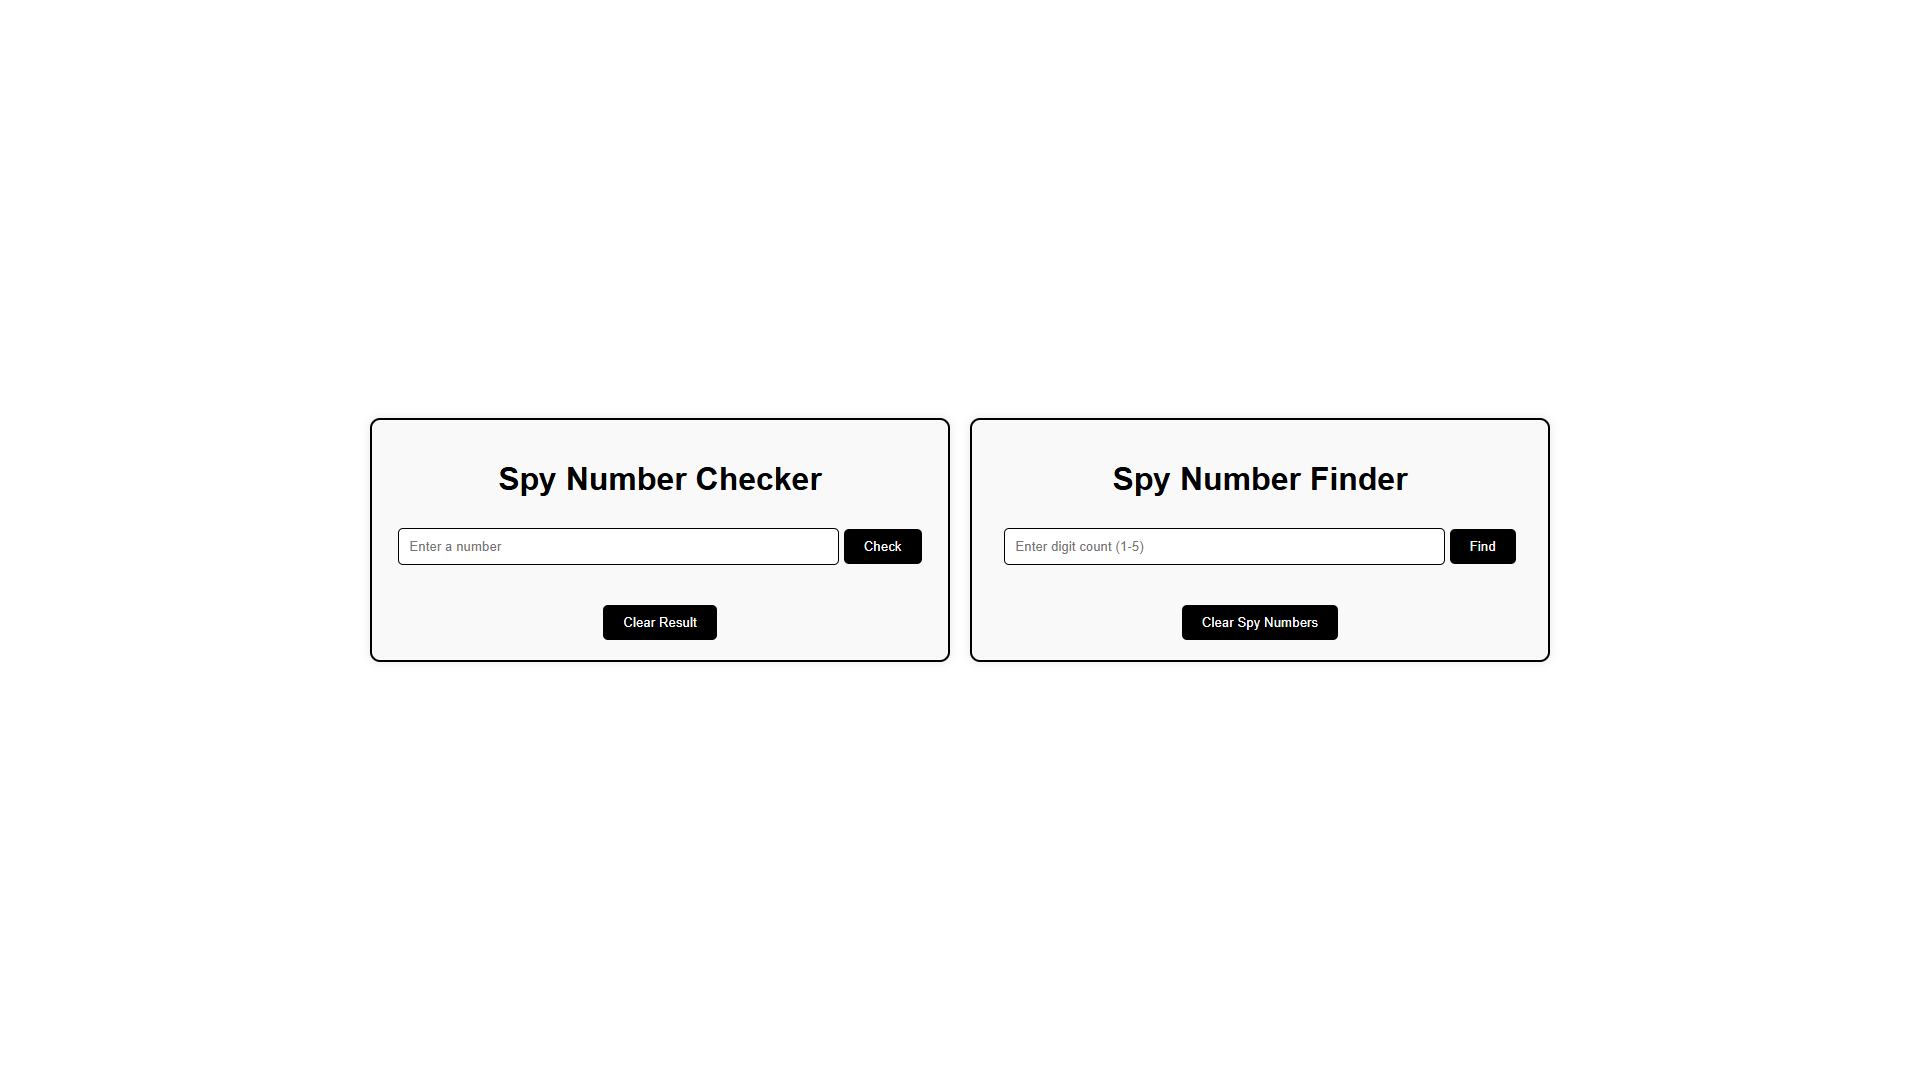
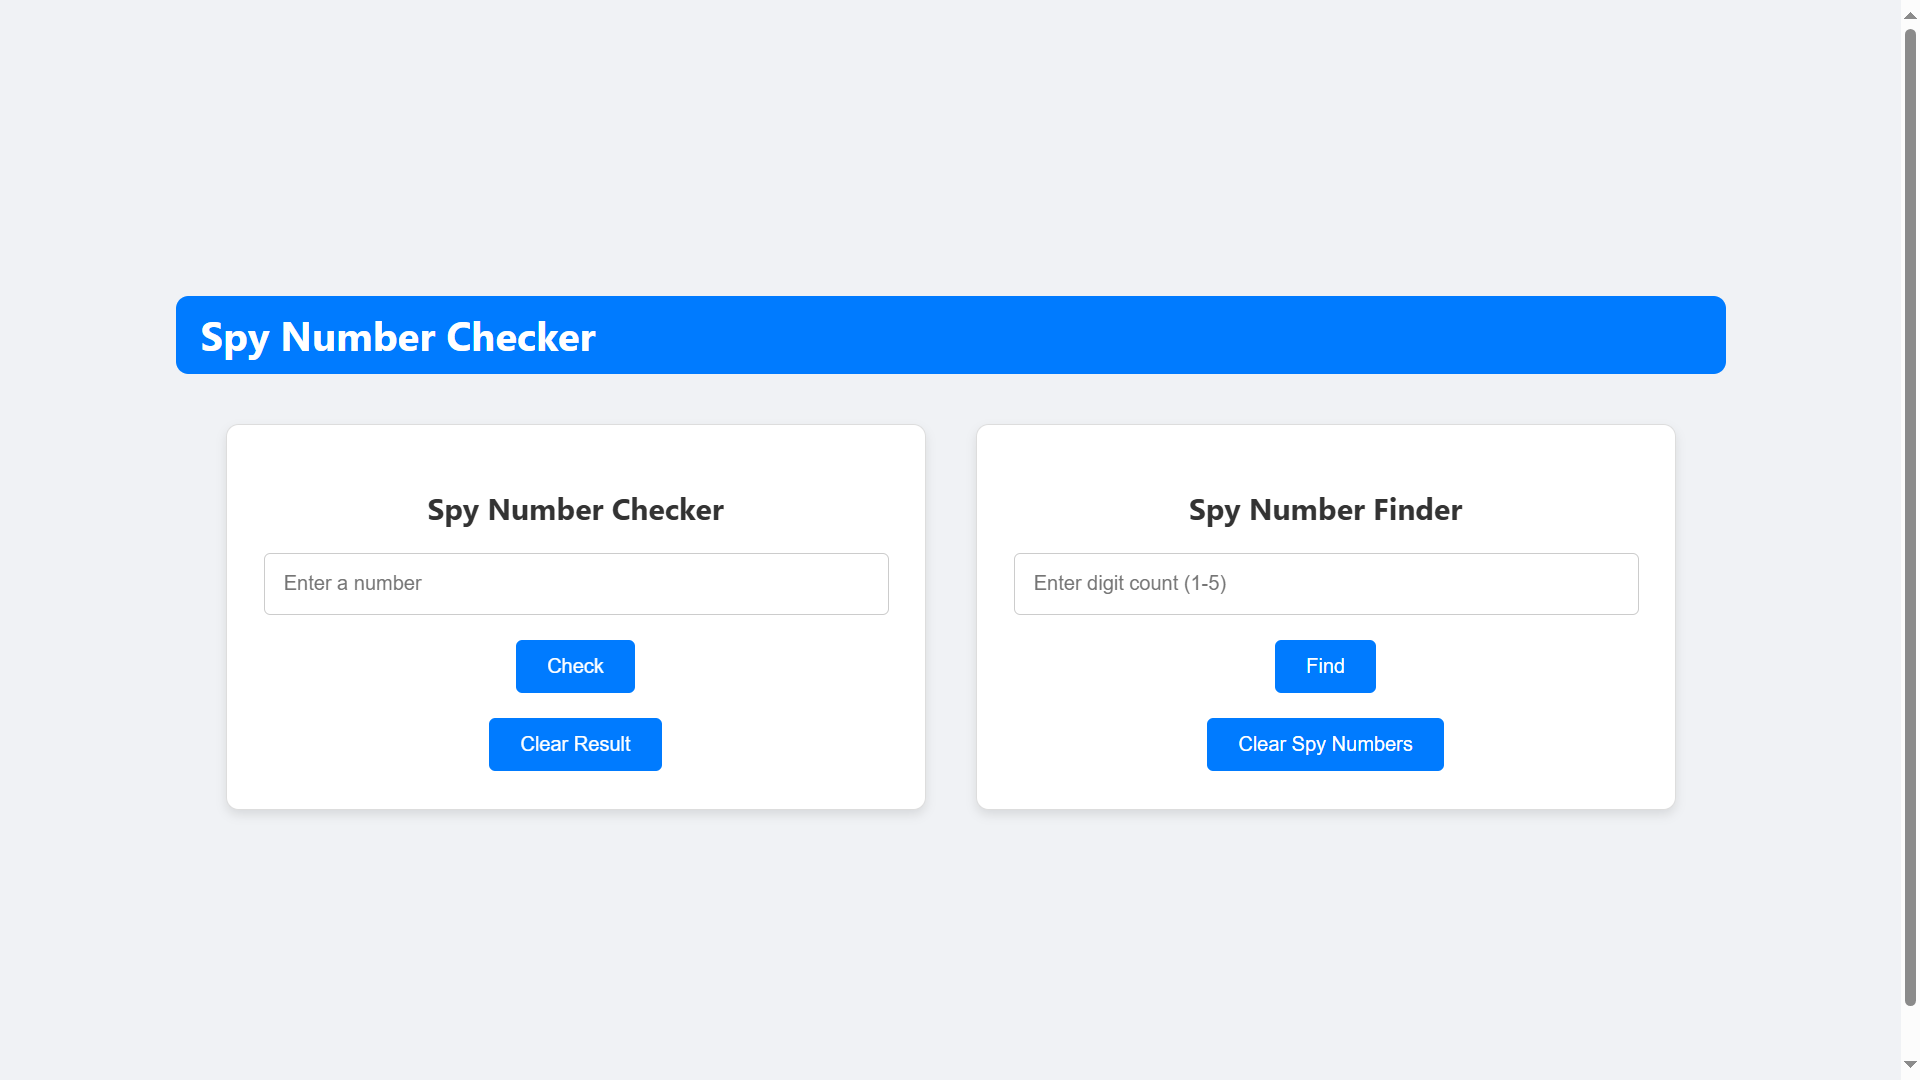
Spy calculator ui improvised

diff --git a/Calculators/Spy-number-calculator/script.js b/Calculators/Spy-number-calculator/script.js
@@ -1,109 +1,43 @@
-document.getElementById('spyNumberForm').addEventListener('submit', function(event) {
-    event.preventDefault();
-    
-    const numberInput = document.getElementById('numberInput').value;
-    const resultElement = document.getElementById('result');
 
-
-    if (!/^\d+$/.test(numberInput)) {
-        resultElement.textContent = 'Please enter a valid positive integer.';
-        resultElement.style.color = 'red';
-        return;
-    }
-
-    const number = parseInt(numberInput, 10);
-
-    let sum = 0;
-    let product = 1;
-    let tempNumber = number;
-
-    while (tempNumber > 0) {
-        let digit = tempNumber % 10;
-        sum += digit;
-        product *= digit;
-        tempNumber = Math.floor(tempNumber / 10);
-    }
-
-    if (sum === product) {
-        resultElement.textContent = `${number} is a Spy Number!`;
-        resultElement.style.color = 'green';
-    } else {
-        resultElement.textContent = `${number} is not a Spy Number.`;
-        resultElement.style.color = 'black';
-    }
-
-    document.getElementById('numberInput').value = '';
+document.getElementById('spyNumberForm').addEventListener('submit', function(e) {
+    e.preventDefault();
+    const number = document.getElementById('numberInput').value;
+    const result = checkSpyNumber(number);
+    document.getElementById('result').textContent = result ? `${number} is a Spy Number.` : `${number} is not a Spy Number.`;
 });
-
-const memoizedFindSpyNumbers = (function() {
-    const cache = {};
-
-    function calculateSpyNumbers(digits) {
-        const spyNumbers = [];
-        const start = Math.pow(10, digits - 1);
-        const end = Math.pow(10, digits) - 1;
-
-        for (let number = start; number <= end; number++) {
-            let sum = 0;
-            let product = 1;
-            let tempNumber = number;
-
-            while (tempNumber > 0) {
-                let digit = tempNumber % 10;
-                sum += digit;
-                product *= digit;
-                tempNumber = Math.floor(tempNumber / 10);
-            }
-
-            if (sum === product) {
-                spyNumbers.push(number);
-            }
-        }
-
-        return spyNumbers;
-    }
-
-    return function(digits) {
-        if (!cache[digits]) {
-            cache[digits] = calculateSpyNumbers(digits);
-        }
-        return cache[digits];
-    }
-})();
-
-document.getElementById('digitForm').addEventListener('submit', function(event) {
-    event.preventDefault();
-    
-    const digitInput = document.getElementById('digitInput').value;
-    const spyNumbersResult = document.getElementById('spyNumbersResult');
-    spyNumbersResult.innerHTML = '';
-
-    if (digitInput < 1 || digitInput > 9) {
-        spyNumbersResult.textContent = 'Please enter a valid digit count between 1 and 9.';
-        spyNumbersResult.style.color = 'red';
-        return;
-    }
-
-    const spyNumbers = memoizedFindSpyNumbers(parseInt(digitInput, 10));
-    if (spyNumbers.length === 0) {
-        spyNumbersResult.textContent = `No Spy Numbers found with ${digitInput} digits.`;
-        spyNumbersResult.style.color = 'black';
-    } else {
-        spyNumbersResult.textContent = `Spy Numbers with ${digitInput} digits: ${spyNumbers.join(', ')}`;
-        spyNumbersResult.style.color = 'black';
-    }
-
-    document.getElementById('digitInput').value = '';
-});
-
 
 document.getElementById('clearResultBtn').addEventListener('click', function() {
     document.getElementById('result').textContent = '';
     document.getElementById('numberInput').value = '';
 });
 
+document.getElementById('digitForm').addEventListener('submit', function(e) {
+    e.preventDefault();
+    const digitCount = document.getElementById('digitInput').value;
+    const spyNumbers = findSpyNumbers(digitCount);
+    document.getElementById('spyNumbersResult').innerHTML = `<p>Spy Numbers with ${digitCount} digits:</p><p>${spyNumbers.join(', ')}</p>`;
+});
 
 document.getElementById('clearSpyNumbersBtn').addEventListener('click', function() {
     document.getElementById('spyNumbersResult').innerHTML = '';
     document.getElementById('digitInput').value = '';
 });
+
+function checkSpyNumber(number) {
+    const digits = number.split('').map(Number);
+    const sum = digits.reduce((a, b) => a + b, 0);
+    const product = digits.reduce((a, b) => a * b, 1);
+    return sum === product;
+}
+
+function findSpyNumbers(digitCount) {
+    const spyNumbers = [];
+    const start = Math.pow(10, digitCount - 1);
+    const end = Math.pow(10, digitCount);
+    for (let i = start; i < end; i++) {
+        if (checkSpyNumber(i.toString())) {
+            spyNumbers.push(i);
+        }
+    }
+    return spyNumbers;
+}

diff --git a/Calculators/Spy-number-calculator/styles.css b/Calculators/Spy-number-calculator/styles.css
@@ -1,66 +1,132 @@
 
 body {
-    font-family: Arial, sans-serif;
-    background-color: #fff;
-    color: #000;
+    font-family: 'Segoe UI', Tahoma, Geneva, Verdana, sans-serif;
+    background-color: #f0f2f5;
+    color: #333;
     display: flex;
+    flex-direction: column;
     justify-content: center;
     align-items: center;
     height: 100vh;
     margin: 0;
+    padding: 20px;
+    transition: background-color 0.3s ease, color 0.3s ease;
 }
 
+
+.preloader {
+    position: fixed;
+    top: 0;
+    left: 0;
+    width: 100%;
+    height: 100%;
+    background-color: #f0f2f5;
+    display: flex;
+    justify-content: center;
+    align-items: center;
+    z-index: 1000;
+}
+
+.preloader .spinner {
+    border: 4px solid rgba(0, 0, 0, 0.1);
+    border-left-color: #007bff;
+    border-radius: 50%;
+    width: 40px;
+    height: 40px;
+    animation: spin 1s linear infinite;
+}
+
+@keyframes spin {
+    0% {
+        transform: rotate(0deg);
+    }
+    100% {
+        transform: rotate(360deg);
+    }
+}
+
+header.header {
+    display: flex;
+    justify-content: space-between;
+    align-items: center;
+    width: 100%;
+    max-width: 1200px;
+    padding: 10px 20px;
+    background-color: #007bff;
+    color: #fff;
+    border-radius: 10px;
+    margin-bottom: 20px;
+}
+
+header.header h1 {
+    margin: 0;
+}
+
+header.header {
+    position: relative;
+}
 
 .container {
     display: flex;
+    flex-wrap: wrap;
     justify-content: space-around;
     align-items: flex-start;
-    width: 90%;
+    width: 100%;
     max-width: 1200px;
-    margin: 0 auto;
+    opacity: 0;
+    transform: translateY(20px);
+    animation: fadeIn 0.5s forwards 0.2s;
 }
-
 
 .section {
     text-align: center;
-    padding: 20px;
-    border: 2px solid #000;
+    padding: 30px;
+    border: 1px solid #ddd;
     border-radius: 10px;
-    background-color: #f9f9f9;
-    box-shadow: 0 0 10px rgba(0, 0, 0, 0.1);
+    background-color: #fff;
+    box-shadow: 0 4px 8px rgba(0, 0, 0, 0.1);
     flex: 1;
-    margin: 10px;
+    margin: 20px;
+    min-width: 280px;
+    max-width: 500px;
+    transition: background-color 0.3s ease, border-color 0.3s ease;
 }
 
 
 input[type="text"], input[type="number"] {
-    padding: 10px;
-    border: 1px solid #000;
+    padding: 15px;
+    border: 1px solid #ccc;
     border-radius: 5px;
-    width: 80%;
-    margin-bottom: 10px;
-    padding-right: 0px;
+    width: calc(100% - 30px);
+    margin-bottom: 20px;
+    font-size: 16px;
+    transition: border-color 0.3s ease, background-color 0.3s ease, color 0.3s ease;
 }
 
+
 button {
-    padding: 10px 20px;
+    padding: 12px 25px;
     border: none;
     border-radius: 5px;
-    background-color: #000;
+    background-color: #007bff;
     color: #fff;
+    font-size: 16px;
     cursor: pointer;
-    margin-top: 10px;
+    transition: background-color 0.3s ease, transform 0.2s ease;
 }
 
 button:hover {
-    background-color: #333;
+    background-color: #0056b3;
+    transform: scale(1.05);
 }
-
 
 #result, #spyNumbersResult {
     margin-top: 20px;
     font-size: 18px;
+    color: #555;
+    transition: color 0.3s ease;
 }
+
 
 
 @media (max-width: 768px) {
@@ -71,10 +137,17 @@ button:hover {
 
     input[type="text"], input[type="number"] {
         width: 100%;
+        padding-right: 0px;
     }
 
     button {
         width: 100%;
-        margin-top: 10px;
+    }
+}
+
+@keyframes fadeIn {
+    to {
+        opacity: 1;
+        transform: translateY(0);
     }
 }

diff --git a/Calculators/Spy-number-calculator/index.html b/Calculators/Spy-number-calculator/index.html
@@ -7,9 +7,12 @@
     <link rel="stylesheet" href="styles.css">
 </head>
 <body>
+    <header class="header">
+        <h1>Spy Number Calculator</h1>
+    </header>
     <div class="container">
         <div class="section">
-            <h1>Spy Number Checker</h1>
+            <h2>Spy Number Checker</h2>
             <form id="spyNumberForm">
                 <input type="text" id="numberInput" placeholder="Enter a number" required>
                 <button type="submit">Check</button>
@@ -19,9 +22,9 @@
         </div>
 
         <div class="section">
-            <h1>Spy Number Finder</h1>
+            <h2>Spy Number Finder</h2>
             <form id="digitForm">
-                <input type="number" id="digitInput" placeholder="Enter digit count (1-9)" min="1" max="9" required>
+                <input type="number" id="digitInput" placeholder="Enter digit count (1-5)" min="1" max="5" required>
                 <button type="submit">Find</button>
             </form>
             <div id="spyNumbersResult"></div>
